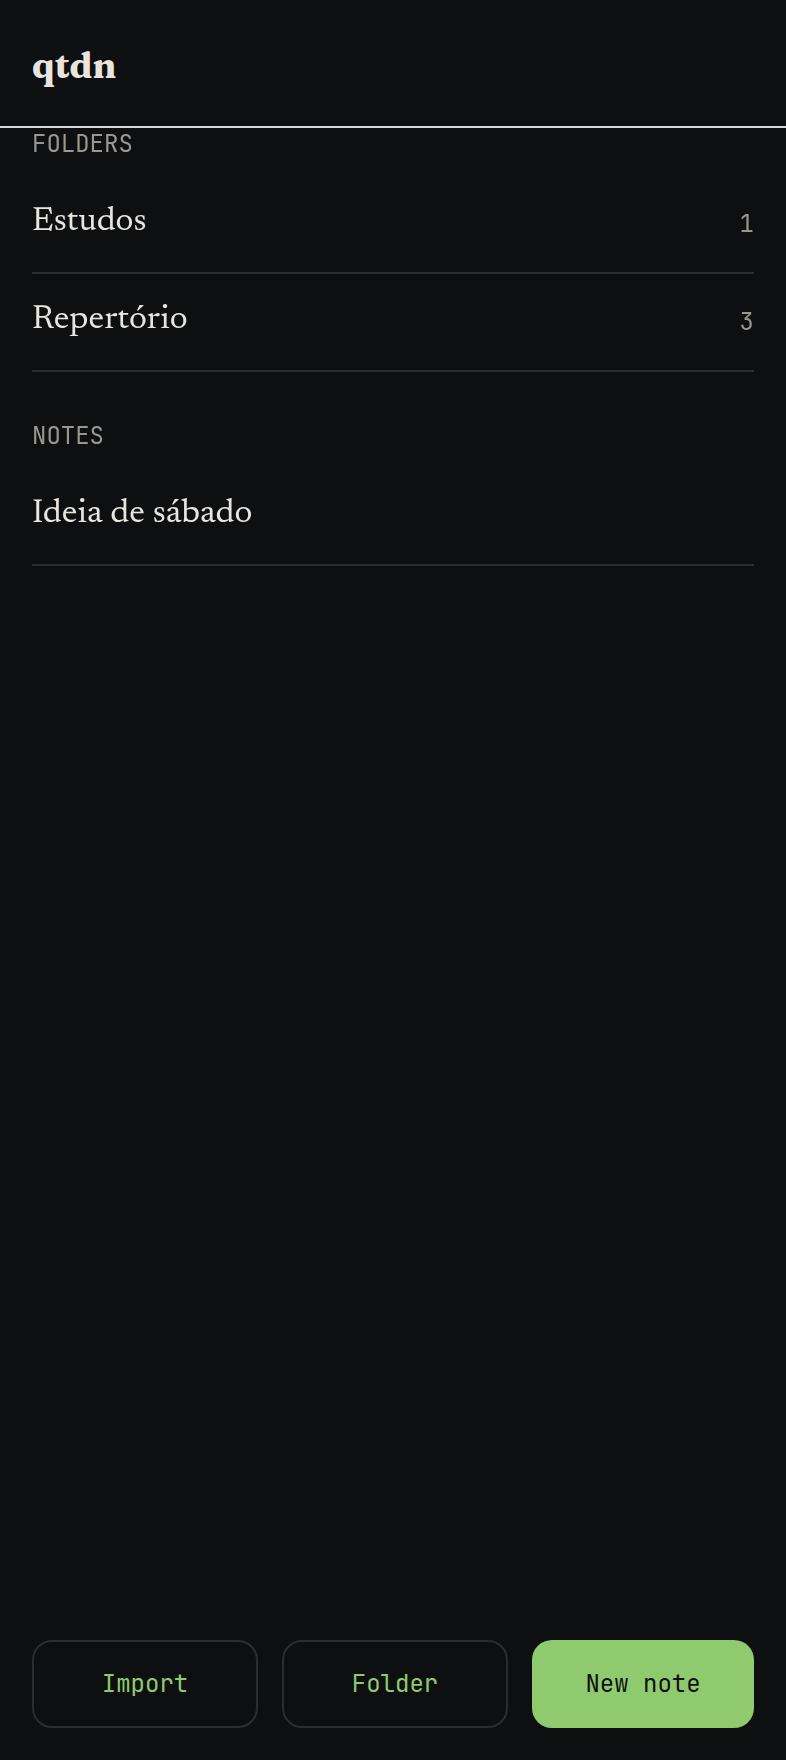
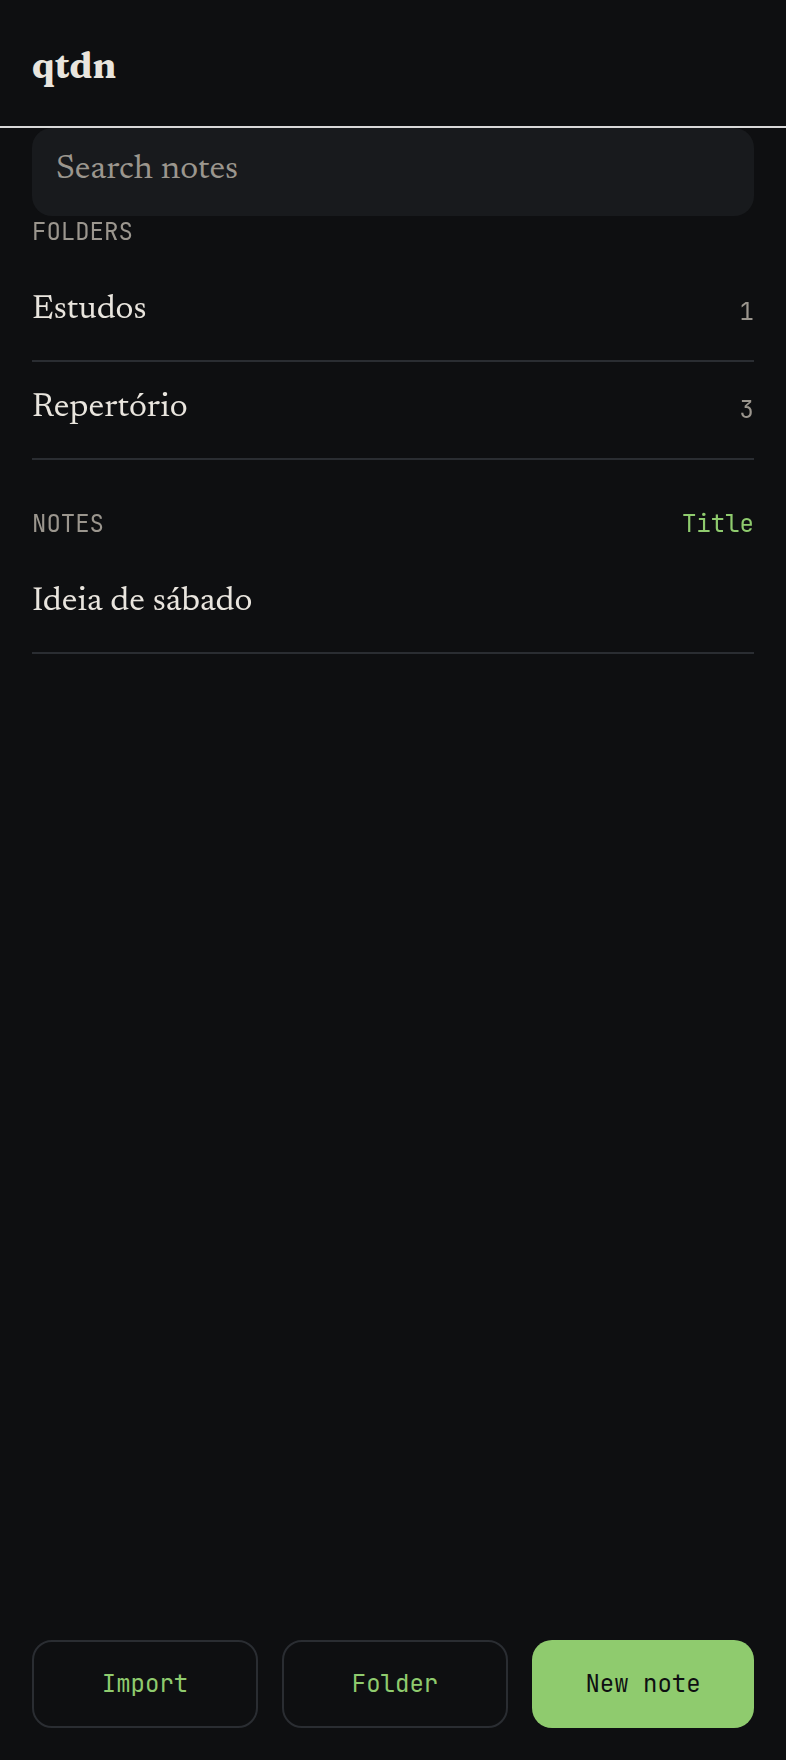
fix: stop rendering tab content as lyrics in the structured editor
The compose screen works line by line and only special-cased a tab block's
opening fence, so every line of the block's body — `e|--5--|` and its siblings —
was parsed as lyrics, set in the prose serif, spaced like a verse, and offered
chord slots. Caught by looking at a screenshot of a note that has a tab in it.

tabBody marks a block's content and its closing fence, excluding the opening one
because that row is the block's handle: it carries the tap-to-edit affordance.
An unclosed block counts to the end of the note, so its contents are never
offered as lyrics on the strength of a missing fence.

Claude-Session: https://claude.ai/code/session_01UvwVhADZoQ7MJJbPAnnoZA

diff --git a/apps/mobile/app/compose/[id].tsx b/apps/mobile/app/compose/[id].tsx
@@ -7,10 +7,11 @@ import {
   setChordAt,
   setText,
   slots,
+  tabBody,
   type LyricLine,
 } from '@qtdn/chordpro';
 import { Stack, router, useLocalSearchParams } from 'expo-router';
-import { useCallback, useEffect, useState } from 'react';
+import { useCallback, useEffect, useMemo, useState } from 'react';
 import { Pressable, ScrollView, StyleSheet, View } from 'react-native';
 
 import { library } from '@/data';
@@ -82,6 +83,7 @@ export default function ComposeScreen() {
   }
 
   const current = target === null || lines === null ? null : lyricAt(lines, target.line);
+  const inTab = useMemo(() => tabBody(lines ?? []), [lines]);
 
   return (
     <Screen>
@@ -92,6 +94,7 @@ export default function ComposeScreen() {
           <Line
             key={index}
             source={line}
+            inTab={inTab[index] ?? false}
             editing={editing === index}
             onEdit={() => {
               setMenu(index);
@@ -215,6 +218,7 @@ export default function ComposeScreen() {
 
 function Line({
   source,
+  inTab,
   editing,
   onEdit,
   onEditDone,
@@ -222,6 +226,7 @@ function Line({
   onTab,
 }: {
   source: string;
+  inTab: boolean;
   editing: boolean;
   onEdit: () => void;
   onEditDone: (text: string) => void;
@@ -230,6 +235,18 @@ function Line({
 }) {
   if (editing) {
     return <LineEditor initial={plainText(source)} onDone={onEditDone} />;
+  }
+
+  // Tab content is not lyrics. Rendered line-by-line it would be parsed as words and
+  // offered chord slots, which is both wrong and unusable.
+  if (inTab) {
+    return (
+      <Pressable onPress={onTab} style={styles.tabBody}>
+        <Text variant="tab" tone="textMuted">
+          {source === '' ? ' ' : source}
+        </Text>
+      </Pressable>
+    );
   }
 
   const node = parse(source).chart.nodes[0];
@@ -332,6 +349,7 @@ const styles = StyleSheet.create({
   content: { paddingBottom: space.xxl },
   tools: { flexDirection: 'row', gap: space.md, marginTop: space.lg },
   tabRow: { paddingVertical: space.xs },
+  tabBody: { paddingVertical: 0 },
   line: { flexDirection: 'row', flexWrap: 'wrap', marginBottom: space.sm },
   slot: { flexDirection: 'column', paddingRight: space.sm, minHeight: 44 },
   gap: {

diff --git a/packages/chordpro/src/lines.ts b/packages/chordpro/src/lines.ts
@@ -1,4 +1,10 @@
-import { endDirective, sectionEndName, sectionStartName, startDirective } from './directives';
+import {
+  TAB_SECTION,
+  endDirective,
+  sectionEndName,
+  sectionStartName,
+  startDirective,
+} from './directives';
 
 /**
  * Operations on a note's source lines.
@@ -57,6 +63,33 @@ export function appendSection(
 ): string[] {
   const open = label === null ? `{${startDirective(name)}}` : `{${startDirective(name)}: ${label}}`;
   return [...lines, '', open, '', `{${endDirective(name)}}`];
+}
+
+/**
+ * Which lines belong to a tab block's body — its content and its closing fence.
+ *
+ * An editor that works line by line would otherwise treat `e|--5--|` as lyrics and offer
+ * to hang a chord off it. The opening fence is excluded because it is the block's handle:
+ * that is the row an editor puts its affordance on.
+ */
+export function tabBody(lines: readonly string[]): boolean[] {
+  const inside = lines.map(() => false);
+  let open = false;
+
+  for (const [index, line] of lines.entries()) {
+    const name = directiveName(line);
+    const closes = name === null ? null : sectionEndName(name);
+
+    if (open) {
+      inside[index] = true;
+      if (closes === TAB_SECTION) open = false;
+      continue;
+    }
+
+    if (name !== null && sectionStartName(name) === TAB_SECTION) open = true;
+  }
+
+  return inside;
 }
 
 /** The lines a delete should take: the block around a fence, or the single line. */

diff --git a/packages/chordpro/test/lines.test.ts b/packages/chordpro/test/lines.test.ts
@@ -1,6 +1,6 @@
 import { describe, expect, it } from 'vitest';
 
-import { appendSection, isFence, moveLine, removeLine } from '../src/index';
+import { appendSection, isFence, moveLine, removeLine, tabBody } from '../src/index';
 
 const VERSE = [
   '{title: Wave}',
@@ -137,5 +137,35 @@ describe('appendSection', () => {
       '',
       '{end_of_bridge}',
     ]);
+  });
+});
+
+describe('tabBody', () => {
+  it('marks a tab block’s content and its closing fence, but not its handle', () => {
+    const lines = ['before', '{start_of_tab}', 'e|--5--|', 'B|--5--|', '{end_of_tab}', 'after'];
+
+    expect(tabBody(lines)).toEqual([false, false, true, true, true, false]);
+  });
+
+  it('marks nothing in a note with no tab', () => {
+    expect(tabBody(['{title: Wave}', '[D7M]a'])).toEqual([false, false]);
+  });
+
+  it('handles two tab blocks', () => {
+    const lines = [
+      '{start_of_tab}',
+      'a',
+      '{end_of_tab}',
+      'between',
+      '{start_of_tab}',
+      'b',
+      '{end_of_tab}',
+    ];
+
+    expect(tabBody(lines)).toEqual([false, true, true, false, false, true, true]);
+  });
+
+  it('treats an unclosed block as running to the end, so its content is never offered as lyrics', () => {
+    expect(tabBody(['{start_of_tab}', 'e|--5--|'])).toEqual([false, true]);
   });
 });

diff --git a/packages/chordpro/src/index.ts b/packages/chordpro/src/index.ts
@@ -42,7 +42,7 @@ export {
   setFret,
 } from './tab';
 export type { Fret, StringName, TabGrid, TabRow } from './tab';
-export { appendSection, isFence, moveLine, removeLine } from './lines';
+export { appendSection, isFence, moveLine, removeLine, tabBody } from './lines';
 export { parse } from './parse';
 export { serialize } from './serialize';
 export { chordsUsed, getDirective, walk } from './query';
